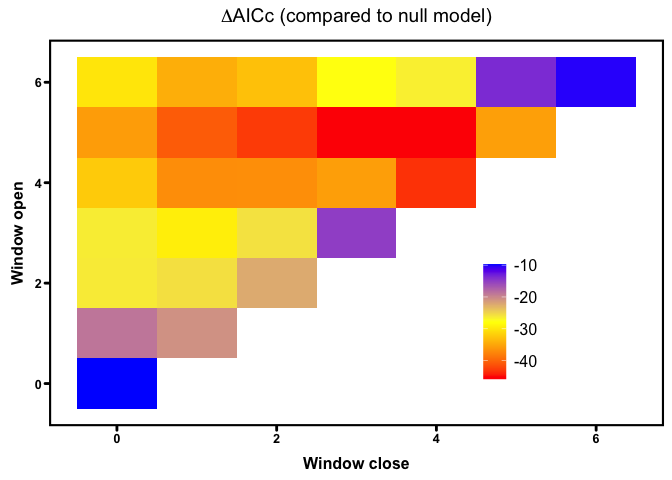
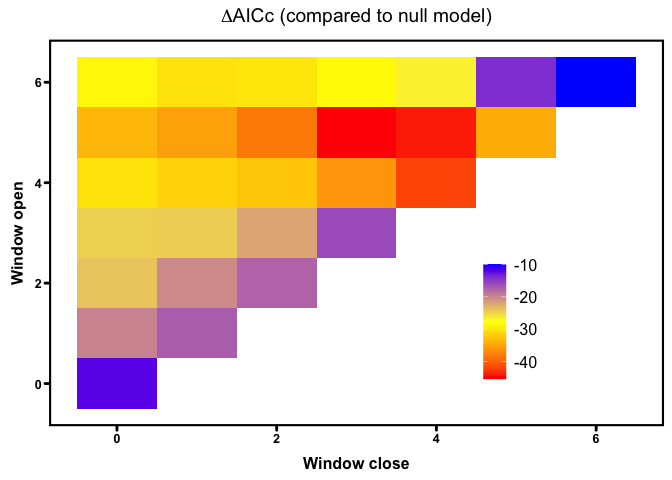
Add viirs outputs

diff --git a/reports/climwin_demo.md b/reports/climwin_demo.md
@@ -44,55 +44,58 @@ here is seagrass shoot density
 ## Fit baseline model
 
     ## Linear mixed model fit by REML ['lmerMod']
-    ## Formula: DensityShootsMean ~ sBladeArea + TidalHeight + fYear + (1 | Region) +  
-    ##     (1 | Meadow)
+    ## Formula: 
+    ## DensityShootsMean ~ sBladeArea + TidalHeight + fYear + TransectPrevalence +  
+    ##     (1 | Region) + (1 | Meadow)
     ##    Data: dis_env
     ## 
-    ## REML criterion at convergence: 5196
+    ## REML criterion at convergence: 5173.4
     ## 
     ## Scaled residuals: 
     ##     Min      1Q  Median      3Q     Max 
-    ## -1.9560 -0.4019 -0.1155  0.2536  8.5274 
+    ## -1.9056 -0.3968 -0.0930  0.2865  8.4579 
     ## 
     ## Random effects:
     ##  Groups   Name        Variance Std.Dev.
-    ##  Meadow   (Intercept)  28633   169.2   
-    ##  Region   (Intercept)  25955   161.1   
-    ##  Residual             102477   320.1   
+    ##  Meadow   (Intercept) 31227    176.7   
+    ##  Region   (Intercept) 40598    201.5   
+    ##  Residual             98472    313.8   
     ## Number of obs: 362, groups:  Meadow, 21; Region, 5
     ## 
     ## Fixed effects:
-    ##              Estimate Std. Error t value
-    ## (Intercept)    298.44      89.93   3.319
-    ## sBladeArea     -73.38      32.51  -2.257
-    ## TidalHeightU    94.31      37.98   2.484
-    ## fYear2020      -66.88      41.43  -1.615
-    ## fYear2021     -105.55      42.54  -2.481
+    ##                    Estimate Std. Error t value
+    ## (Intercept)          158.37     112.36   1.410
+    ## sBladeArea           -57.96      32.72  -1.771
+    ## TidalHeightU         103.02      37.47   2.750
+    ## fYear2020            -37.74      41.42  -0.911
+    ## fYear2021            -82.71      42.19  -1.960
+    ## TransectPrevalence   281.31      79.57   3.535
     ## 
     ## Correlation of Fixed Effects:
-    ##             (Intr) sBldAr TdlHgU fY2020
-    ## sBladeArea  -0.170                     
-    ## TidalHeghtU -0.246  0.458              
-    ## fYear2020   -0.220  0.062 -0.001       
-    ## fYear2021   -0.258  0.264  0.122  0.477
+    ##             (Intr) sBldAr TdlHgU fY2020 fY2021
+    ## sBladeArea  -0.162                            
+    ## TidalHeghtU -0.208  0.469                     
+    ## fYear2020   -0.237  0.075  0.007              
+    ## fYear2021   -0.250  0.277  0.131  0.490       
+    ## TrnsctPrvln -0.344  0.077  0.038  0.197  0.139
 
 ## Look for climate windows
 
     ##   |                                                                              |                                                                      |   0%  |                                                                              |||                                                                    |   4%  |                                                                              |||||||||                                                              |  11%  |                                                                              ||||||||||||||||                                                       |  21%  |                                                                              ||||||||||||||||||||||||||                                             |  36%  |                                                                              |||||||||||||||||||||||||||||||||||||||                                |  54%  |                                                                              |||||||||||||||||||||||||||||||||||||||||||||||||||||                  |  75%  |                                                                              |||||||||||||||||||||||||||||||||||||||||||||||||||||||||||||||||||||||| 100%  |                                                                              |                                                                      |   0%  |                                                                              |||                                                                    |   4%  |                                                                              |||||||||                                                              |  11%  |                                                                              ||||||||||||||||                                                       |  21%  |                                                                              ||||||||||||||||||||||||||                                             |  36%  |                                                                              |||||||||||||||||||||||||||||||||||||||                                |  54%  |                                                                              |||||||||||||||||||||||||||||||||||||||||||||||||||||                  |  75%  |                                                                              |||||||||||||||||||||||||||||||||||||||||||||||||||||||||||||||||||||||| 100%  |                                                                              |                                                                      |   0%  |                                                                              |||                                                                    |   4%  |                                                                              |||||||||                                                              |  11%  |                                                                              ||||||||||||||||                                                       |  21%  |                                                                              ||||||||||||||||||||||||||                                             |  36%  |                                                                              |||||||||||||||||||||||||||||||||||||||                                |  54%  |                                                                              |||||||||||||||||||||||||||||||||||||||||||||||||||||                  |  75%  |                                                                              |||||||||||||||||||||||||||||||||||||||||||||||||||||||||||||||||||||||| 100%  |                                                                              |                                                                      |   0%  |                                                                              |||                                                                    |   4%  |                                                                              |||||||||                                                              |  11%  |                                                                              ||||||||||||||||                                                       |  21%  |                                                                              ||||||||||||||||||||||||||                                             |  36%  |                                                                              |||||||||||||||||||||||||||||||||||||||                                |  54%  |                                                                              |||||||||||||||||||||||||||||||||||||||||||||||||||||                  |  75%  |                                                                              |||||||||||||||||||||||||||||||||||||||||||||||||||||||||||||||||||||||| 100%  |                                                                              |                                                                      |   0%  |                                                                              |||                                                                    |   4%  |                                                                              |||||||||                                                              |  11%  |                                                                              ||||||||||||||||                                                       |  21%  |                                                                              ||||||||||||||||||||||||||                                             |  36%  |                                                                              |||||||||||||||||||||||||||||||||||||||                                |  54%  |                                                                              |||||||||||||||||||||||||||||||||||||||||||||||||||||                  |  75%  |                                                                              |||||||||||||||||||||||||||||||||||||||||||||||||||||||||||||||||||||||| 100%  |                                                                              |                                                                      |   0%  |                                                                              |||                                                                    |   4%  |                                                                              |||||||||                                                              |  11%  |                                                                              ||||||||||||||||                                                       |  21%  |                                                                              ||||||||||||||||||||||||||                                             |  36%  |                                                                              |||||||||||||||||||||||||||||||||||||||                                |  54%  |                                                                              |||||||||||||||||||||||||||||||||||||||||||||||||||||                  |  75%  |                                                                              |||||||||||||||||||||||||||||||||||||||||||||||||||||||||||||||||||||||| 100%
 
     ##            response         climate     type stat func DeltaAICc WindowOpen
-    ## 1 DensityShootsMean     TempAnomaly absolute mean  lin    -43.23          6
-    ## 2 DensityShootsMean TempAnomalyHeat absolute mean  lin    -45.28          4
-    ## 3 DensityShootsMean            Temp absolute mean  lin    -23.22          6
-    ## 4 DensityShootsMean     TempAnomaly relative mean  lin    -41.70          5
-    ## 5 DensityShootsMean TempAnomalyHeat relative mean  lin    -45.77          5
-    ## 6 DensityShootsMean            Temp relative mean  lin    -27.76          5
+    ## 1 DensityShootsMean     TempAnomaly absolute mean  lin    -39.59          6
+    ## 2 DensityShootsMean TempAnomalyHeat absolute mean  lin    -43.26          4
+    ## 3 DensityShootsMean            Temp absolute mean  lin    -20.96          6
+    ## 4 DensityShootsMean     TempAnomaly relative mean  lin    -44.63          5
+    ## 5 DensityShootsMean TempAnomalyHeat relative mean  lin    -45.51          5
+    ## 6 DensityShootsMean            Temp relative mean  lin    -31.26          5
     ##   WindowClose
     ## 1           6
     ## 2           3
     ## 3           6
-    ## 4           4
-    ## 5           4
+    ## 4           3
+    ## 5           3
     ## 6           4
 
 ![](climwin_demo_files/figure-gfm/climwin-1.png)<!-- -->![](climwin_demo_files/figure-gfm/climwin-2.png)<!-- -->
@@ -409,50 +412,52 @@ here is seagrass shoot density
 
 ## Update baseline model to include climate
 
-    ##   yvar  sBladeArea TidalHeight fYear Region Meadow   climate
-    ## 1  520 -1.10021478           U  2019     AK   AK_A 0.4785788
-    ## 2  733 -1.00713811           U  2019     AK   AK_A 0.4785788
-    ## 3  753 -1.09155573           U  2019     AK   AK_A 0.4785788
-    ## 4  900 -0.41868154           L  2019     AK   AK_A 0.4785788
-    ## 5  542 -0.05656529           L  2019     AK   AK_A 0.4785788
-    ## 6  545 -0.75170890           L  2019     AK   AK_A 0.4785788
+    ##   yvar  sBladeArea TidalHeight fYear TransectPrevalence Region Meadow   climate
+    ## 1  520 -1.10021478           U  2019               0.45     AK   AK_A 0.4621338
+    ## 2  733 -1.00713811           U  2019               0.40     AK   AK_A 0.4621338
+    ## 3  753 -1.09155573           U  2019               0.40     AK   AK_A 0.4621338
+    ## 4  900 -0.41868154           L  2019               1.00     AK   AK_A 0.4621338
+    ## 5  542 -0.05656529           L  2019               0.70     AK   AK_A 0.4621338
+    ## 6  545 -0.75170890           L  2019               0.80     AK   AK_A 0.4621338
 
     ## Linear mixed model fit by REML ['lmerMod']
     ## Formula: 
-    ## DensityShootsMean ~ sBladeArea + TidalHeight + fYear + TempAnomalyHeat +  
-    ##     (1 | Region) + (1 | Meadow)
+    ## DensityShootsMean ~ sBladeArea + TidalHeight + fYear + TransectPrevalence +  
+    ##     TempAnomalyHeat + (1 | Region) + (1 | Meadow)
     ##    Data: new_data
     ## 
-    ## REML criterion at convergence: 5148.1
+    ## REML criterion at convergence: 5125.8
     ## 
     ## Scaled residuals: 
     ##     Min      1Q  Median      3Q     Max 
-    ## -1.9116 -0.4508 -0.0778  0.3365  8.4671 
+    ## -2.3765 -0.4418 -0.0223  0.2833  8.6083 
     ## 
     ## Random effects:
     ##  Groups   Name        Variance Std.Dev.
-    ##  Meadow   (Intercept) 26327    162.3   
-    ##  Region   (Intercept) 20720    143.9   
-    ##  Residual             92991    304.9   
+    ##  Meadow   (Intercept) 24824    157.6   
+    ##  Region   (Intercept) 20299    142.5   
+    ##  Residual             90355    300.6   
     ## Number of obs: 362, groups:  Meadow, 21; Region, 5
     ## 
     ## Fixed effects:
-    ##                 Estimate Std. Error t value
-    ## (Intercept)        3.611     95.394   0.038
-    ## sBladeArea       -36.065     31.483  -1.146
-    ## TidalHeightU     119.211     36.381   3.277
-    ## fYear2020         76.994     45.907   1.677
-    ## fYear2021        178.865     61.605   2.903
-    ## TempAnomalyHeat  997.928    162.677   6.134
+    ##                    Estimate Std. Error t value
+    ## (Intercept)         -225.27     109.65  -2.054
+    ## sBladeArea           -55.00      30.51  -1.803
+    ## TidalHeightU         116.34      35.76   3.253
+    ## fYear2020            100.25      45.69   2.194
+    ## fYear2021            188.91      60.20   3.138
+    ## TransectPrevalence   274.66      75.83   3.622
+    ## TempAnomalyHeat     1091.03     177.40   6.150
     ## 
     ## Correlation of Fixed Effects:
-    ##             (Intr) sBldAr TdlHgU fY2020 fY2021
-    ## sBladeArea  -0.249                            
-    ## TidalHeghtU -0.277  0.467                     
-    ## fYear2020   -0.428  0.153  0.057              
-    ## fYear2021   -0.533  0.319  0.165  0.654       
-    ## TempAnmlyHt -0.505  0.198  0.114  0.511  0.753
+    ##             (Intr) sBldAr TdlHgU fY2020 fY2021 TrnscP
+    ## sBladeArea  -0.191                                   
+    ## TidalHeghtU -0.249  0.460                            
+    ## fYear2020   -0.491  0.096  0.046                     
+    ## fYear2021   -0.596  0.227  0.144  0.654              
+    ## TrnsctPrvln -0.341  0.076  0.037  0.174  0.099       
+    ## TempAnmlyHt -0.583  0.062  0.083  0.496  0.743  0.009
 
     ##                df      AIC
-    ## fit_den         8 5212.000
-    ## fit_den_update  9 5166.126
+    ## fit_den         9 5191.420
+    ## fit_den_update 10 5145.794
